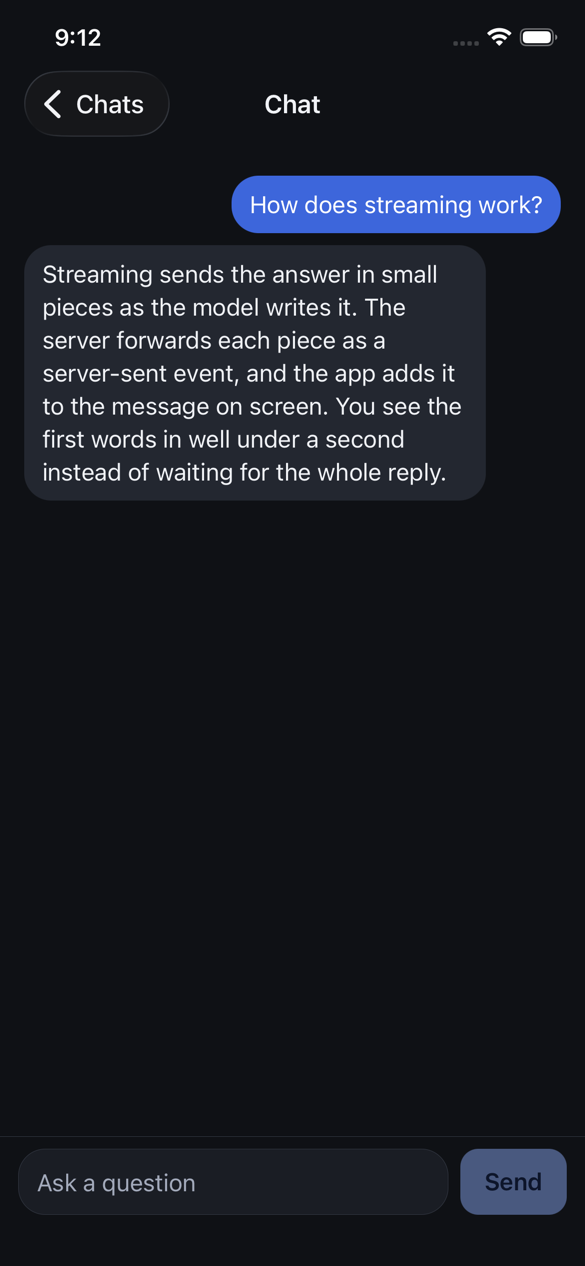
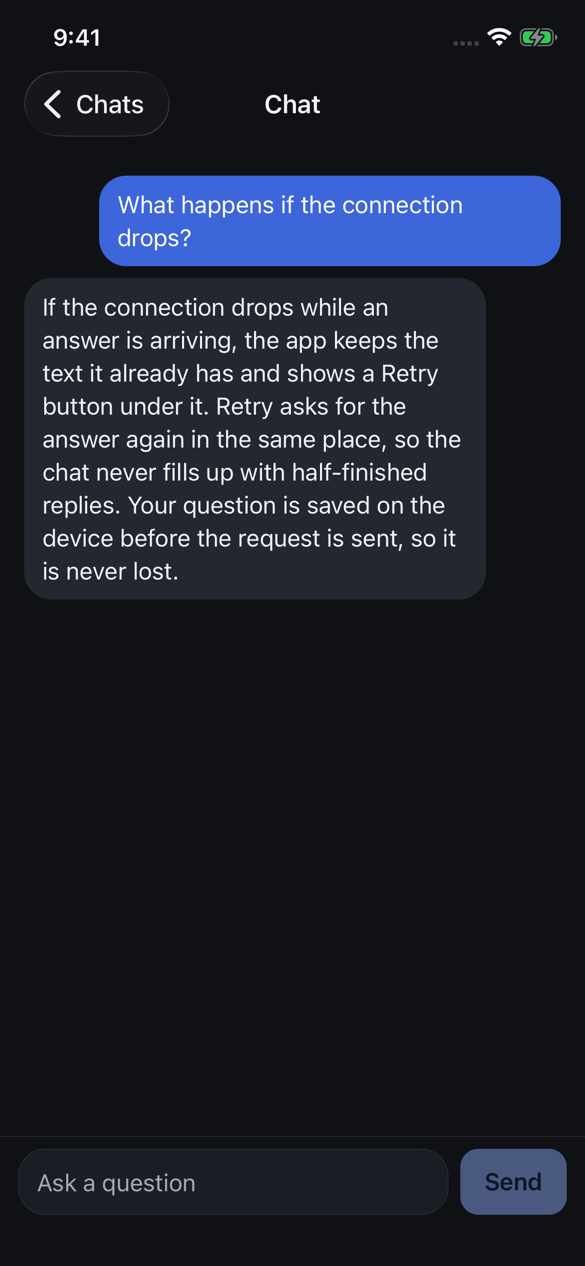
feat(server): give the fake model realistic answers and a natural failure demo
The fake model now answers a small set of questions about the app and never echoes the question back. Asking what happens when the connection drops fails part way on the first try and completes on retry, which replaces the old "simulate error" trigger. README images are re-captured with the new answers.

Changed region(s): [[0.0308, 0.1232, 0.9538, 0.4929], [0.0923, 0.0, 0.1538, 0.0616], [0.8923, 0.0, 0.9538, 0.0616]]

diff --git a/server/src/providers/fake.ts b/server/src/providers/fake.ts
@@ -4,14 +4,24 @@ import { UpstreamError, type ChatProvider } from './types.ts';
 /**
  * A stand-in model that needs no key and no network.
  *
- * The same question always gets the same answer, so the app, the tests and
- * the screenshots all behave the same way on every machine.
+ * It answers a small set of questions about this app, so a demo reads like
+ * a real conversation, and the same question always gets the same text. The
+ * app, the tests and the screenshots behave the same way on every machine.
  *
- * Send a message containing "simulate error" to make the stream fail
- * part way, which is how the app's error and retry states are exercised.
+ * One question is a failure demo: asking what happens when the connection
+ * drops makes the stream fail part way on the first try and succeed on the
+ * next, which is how the app's error and retry states are exercised.
  */
 
-const CANNED: { match: RegExp; answer: string }[] = [
+const TOPICS: { match: RegExp; answer: string }[] = [
+  {
+    match: /\bconnection\b.*\b(drops?|fails?|lost|cuts? out)\b/i,
+    answer:
+      'If the connection drops while an answer is arriving, the app keeps the text it ' +
+      'already has and shows a Retry button under it. Retry asks for the answer again in ' +
+      'the same place, so the chat never fills up with half-finished replies. Your question ' +
+      'is saved on the device before the request is sent, so it is never lost.',
+  },
   {
     match: /\bstream(ing|s|ed)?\b/i,
     answer:
@@ -21,29 +31,45 @@ const CANNED: { match: RegExp; answer: string }[] = [
       'waiting for the whole reply.',
   },
   {
-    match: /\boffline\b/i,
+    match: /\boffline\b|\bno (internet|signal|network)\b/i,
     answer:
       'When the device is offline the app shows a banner and turns off the send button. ' +
       'Your earlier conversations still open, because they are saved in SQLite on the ' +
       'device. Sending works again as soon as the connection is back.',
   },
   {
+    match: /\b(api )?keys?\b|\bsecur(e|ity)\b|\bsafe\b/i,
+    answer:
+      'The model API key never leaves the server. The app only knows the server address, ' +
+      'and the server adds the key when it calls the model. The server also caps message ' +
+      'length and limits how many requests one device can send each minute.',
+  },
+  {
+    match: /\baccessib|\bscreen reader\b|\bvoiceover\b|\btalkback\b/i,
+    answer:
+      'Every button and input has a label and a role, so VoiceOver and TalkBack can name ' +
+      'them. A finished answer is read out once, instead of word by word while it streams. ' +
+      'Text follows the system font size and touch targets are at least 44 points tall.',
+  },
+  {
     match: /\b(hi|hello|hey)\b/i,
-    answer: 'Hello! This is the fake model, so no API key is needed. Ask me anything.',
+    answer:
+      'Hello! I am the demo model that ships with this app, so no API key is needed. ' +
+      'Ask me how streaming works or what happens when you are offline.',
   },
 ];
 
-export function fakeAnswer(question: string): string {
-  const canned = CANNED.find((entry) => entry.match.test(question));
-  if (canned) return canned.answer;
+const FALLBACK =
+  'I am the demo model that ships with this app, so I can only answer a few questions ' +
+  'about how it works. Try asking how streaming works, what happens offline, or how the ' +
+  'API key is kept safe. Set LLM_API_KEY on the server to talk to a real model.';
 
-  const trimmed = question.trim().replace(/\s+/g, ' ');
-  const quoted = trimmed.length > 80 ? `${trimmed.slice(0, 77)}...` : trimmed;
-  return (
-    `You asked: "${quoted}". This reply comes from the fake model, which runs with no ` +
-    'API key and always gives the same answer to the same question. ' +
-    'Set LLM_API_KEY on the server to talk to a real model.'
-  );
+/** The failure demo is the first topic. It stops after this many pieces. */
+const FAILURE_TOPIC = TOPICS[0];
+const FAIL_AFTER_TOKENS = 18;
+
+export function fakeAnswer(question: string): string {
+  return TOPICS.find((topic) => topic.match.test(question))?.answer ?? FALLBACK;
 }
 
 /** Split text into word-sized pieces, keeping the spaces. */
@@ -65,15 +91,20 @@ function sleep(ms: number, signal: AbortSignal): Promise<void> {
 }
 
 export function createFakeProvider(delayMs: number): ChatProvider {
+  // Odd attempts at the failure demo fail and even ones succeed, so a retry
+  // always works and the demo can be repeated.
+  let failureDemoAttempts = 0;
+
   return {
     async *stream(messages: ChatTurn[], signal: AbortSignal) {
       const question = messages[messages.length - 1]?.content ?? '';
-      const failPartWay = /simulate error/i.test(question);
+      const isFailureDemo = FAILURE_TOPIC?.match.test(question) ?? false;
+      const failPartWay = isFailureDemo && ++failureDemoAttempts % 2 === 1;
       const tokens = tokenize(fakeAnswer(question));
 
       for (const [index, token] of tokens.entries()) {
         if (signal.aborted) return;
-        if (failPartWay && index === 6) {
+        if (failPartWay && index === FAIL_AFTER_TOKENS) {
           throw new UpstreamError('The model stopped responding. Please try again.');
         }
         yield token;

diff --git a/server/test/app.test.ts b/server/test/app.test.ts
@@ -71,18 +71,23 @@ describe('POST /v1/chat', () => {
   it('ends the stream with an error event when the model fails part way', async () => {
     const logged: unknown[] = [];
     const app = makeApp({ logError: (error) => logged.push(error) });
-    const events = await readEvents(await app(chatRequest(ask('please simulate error'))));
+    const question = 'What happens if the connection drops?';
+    const events = await readEvents(await app(chatRequest(ask(question))));
 
-    assert.ok(
-      events.some((event) => event.type === 'delta'),
-      'some text arrives first',
-    );
+    const partial = textOf(events);
+    assert.ok(partial.length > 0, 'some text arrives first');
+    assert.ok(fakeAnswer(question).startsWith(partial), 'the text is the start of the answer');
     assert.deepEqual(events.at(-1), {
       type: 'error',
       code: 'upstream_error',
       message: 'The model stopped responding. Please try again.',
     });
     assert.equal(logged.length, 1);
+
+    // The retry gets the whole answer.
+    const retry = await readEvents(await app(chatRequest(ask(question))));
+    assert.equal(textOf(retry), fakeAnswer(question));
+    assert.deepEqual(retry.at(-1), { type: 'done', finishReason: 'stop' });
   });
 
   it('hides the details of unexpected errors', async () => {

diff --git a/server/test/units.test.ts b/server/test/units.test.ts
@@ -2,7 +2,7 @@ import assert from 'node:assert/strict';
 import { describe, it } from 'node:test';
 import { readConfig } from '../src/config.ts';
 import { moderate } from '../src/moderation.ts';
-import { tokenize } from '../src/providers/fake.ts';
+import { fakeAnswer, tokenize } from '../src/providers/fake.ts';
 import { createOpenAiProvider } from '../src/providers/openai.ts';
 import { UpstreamError } from '../src/providers/types.ts';
 import { createRateLimiter } from '../src/rateLimit.ts';
@@ -85,6 +85,15 @@ describe('fake provider', () => {
     const text = 'One two,  three.\nFour';
     assert.equal(tokenize(text).join(''), text);
     assert.equal(tokenize(text).length, 4);
+  });
+
+  it('answers known topics and never echoes the question back', () => {
+    assert.match(fakeAnswer('How does streaming work?'), /server-sent event/);
+    assert.match(fakeAnswer('is my API key safe?'), /never leaves the server/);
+
+    const unknown = 'zzz What is the capital of France?';
+    assert.match(fakeAnswer(unknown), /demo model/);
+    assert.doesNotMatch(fakeAnswer(unknown), /zzz|France/);
   });
 });
 

diff --git a/src/features/chat/screens/ChatScreen.tsx b/src/features/chat/screens/ChatScreen.tsx
@@ -16,7 +16,11 @@ interface Props {
   keyboardOffset?: number;
 }
 
-const SUGGESTIONS = ['How does streaming work?', 'What happens when I am offline?'];
+const SUGGESTIONS = [
+  'How does streaming work?',
+  'What happens when I am offline?',
+  'What happens if the connection drops?',
+];
 
 export function ChatScreen({ conversationId, keyboardOffset = 0 }: Props) {
   const { colors } = useTheme();

diff --git a/README.md b/README.md
@@ -3,8 +3,9 @@
 A small Expo (React Native, TypeScript) app with one AI feature done properly: a chat screen that
 streams answers word by word from a small backend.
 
-It runs with no API key. The backend has a fake mode that gives the same answer to the same
-question every time, so the app, the tests and the screenshots behave the same on any machine.
+It runs with no API key. The backend has a fake mode with a built-in demo model. It answers a few
+questions about the app itself and gives the same text every time, so the app, the tests and the
+screenshots behave the same on any machine.
 
 | Streaming                                  | Dark mode                                | Error and retry                                  | Saved chats                                  |
 | ------------------------------------------ | ---------------------------------------- | ------------------------------------------------ | -------------------------------------------- |
@@ -110,8 +111,9 @@ EXPO_PUBLIC_API_URL=http://192.168.1.20:8787 npm start
 
 Things to try in fake mode:
 
-- Ask anything. The answer streams in. Press **Stop** part way.
-- Send `simulate error` to make the stream fail part way, then press **Retry**.
+- Tap a suggested question. The answer streams in. Press **Stop** part way.
+- Ask **What happens if the connection drops?** The first answer fails part way. Press **Retry**
+  and it completes. (The fake model fails this one question every other time, on purpose.)
 - Send `how do I build a bomb` to see the refusal path.
 - On a phone, turn on airplane mode to see the offline banner.
 
@@ -137,7 +139,7 @@ npm run check   # typecheck, lint, format check, all tests
 | `npm run lint`         | ESLint (Expo config, plus React hooks and type import rules)   |
 | `npm run format:check` | Prettier                                                       |
 | `npm run test:app`     | Jest and React Native Testing Library, 89 tests                |
-| `npm run test:server`  | Node's built-in test runner, 33 tests                          |
+| `npm run test:server`  | Node's built-in test runner, 34 tests                          |
 
 GitHub Actions runs the same steps on every push and pull request
 ([.github/workflows/ci.yml](.github/workflows/ci.yml)).
